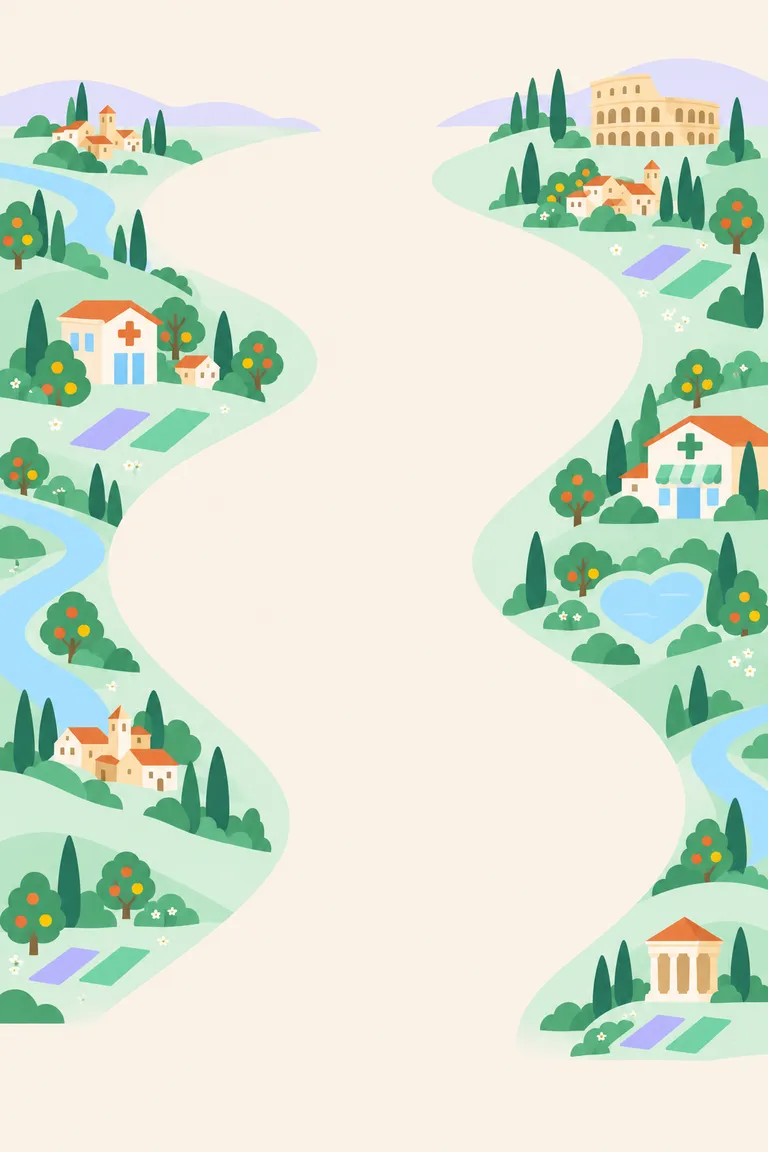
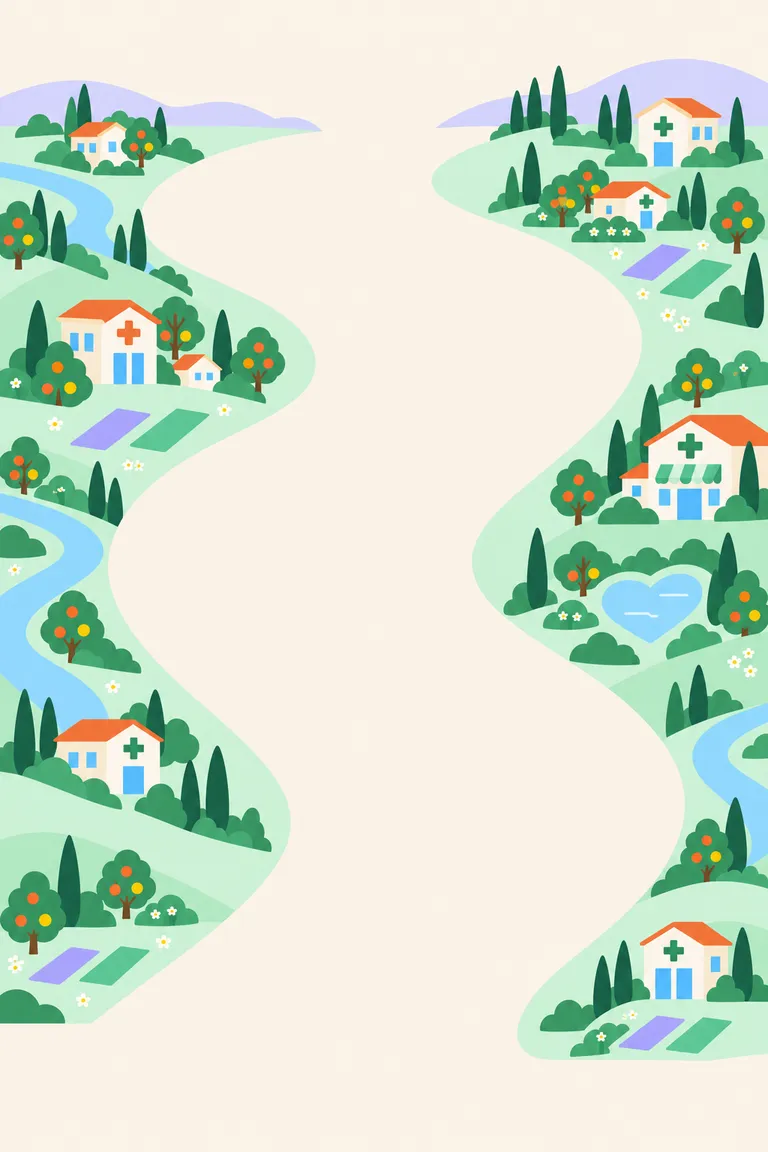
Map: final health landscape
Claude-Session: https://claude.ai/code/session_013CZ3fAhEejDTEUiXMB3nFk

diff --git a/web/src/lib/lands.ts b/web/src/lib/lands.ts
@@ -22,7 +22,7 @@ export const LANDS: Record<string, readonly (readonly [number, number])[]> = {
   "games": [[0.5,0.5],[0.482,0.253],[0.474,0.15],[0.474,0.144],[0.465,0.144],[0.446,0.144],[0.438,0.163],[0.479,0.219],[0.541,0.228],[0.591,0.212],[0.61,0.212],[0.591,0.212],[0.544,0.216],[0.483,0.231],[0.433,0.231],[0.4,0.231],[0.394,0.231],[0.409,0.241],[0.449,0.247],[0.499,0.266],[0.552,0.275],[0.594,0.266],[0.622,0.256],[0.63,0.25],[0.618,0.247],[0.588,0.247],[0.539,0.247],[0.485,0.247],[0.433,0.247],[0.441,0.263],[0.464,0.322],[0.5,0.5],[0.5,0.5]],
   "gardening": [[0.5,0.5],[0.453,0.359],[0.444,0.147],[0.435,0.144],[0.448,0.144],[0.428,0.144],[0.429,0.166],[0.484,0.225],[0.55,0.222],[0.598,0.209],[0.61,0.209],[0.586,0.209],[0.537,0.212],[0.477,0.231],[0.427,0.231],[0.397,0.231],[0.393,0.231],[0.412,0.241],[0.452,0.256],[0.501,0.272],[0.552,0.275],[0.593,0.269],[0.619,0.263],[0.624,0.263],[0.61,0.263],[0.58,0.266],[0.534,0.266],[0.48,0.266],[0.429,0.266],[0.437,0.278],[0.463,0.306],[0.5,0.5],[0.5,0.5]],
   "general": [[0.5,0.5],[0.452,0.356],[0.444,0.144],[0.435,0.144],[0.446,0.144],[0.426,0.156],[0.427,0.175],[0.485,0.216],[0.55,0.222],[0.598,0.209],[0.609,0.209],[0.587,0.209],[0.538,0.216],[0.477,0.228],[0.425,0.234],[0.394,0.234],[0.389,0.234],[0.409,0.244],[0.45,0.253],[0.5,0.269],[0.553,0.278],[0.595,0.272],[0.623,0.263],[0.629,0.259],[0.617,0.259],[0.587,0.259],[0.542,0.259],[0.488,0.259],[0.421,0.269],[0.425,0.281],[0.448,0.344],[0.5,0.5],[0.5,0.5]],
-  "health": [[0.5,0.5],[0.453,0.359],[0.444,0.141],[0.434,0.141],[0.444,0.141],[0.424,0.153],[0.422,0.175],[0.479,0.225],[0.545,0.222],[0.597,0.209],[0.609,0.209],[0.584,0.209],[0.533,0.209],[0.472,0.228],[0.422,0.234],[0.392,0.234],[0.389,0.234],[0.41,0.237],[0.452,0.247],[0.504,0.259],[0.557,0.269],[0.599,0.263],[0.623,0.256],[0.626,0.253],[0.608,0.253],[0.575,0.253],[0.525,0.253],[0.472,0.256],[0.417,0.259],[0.428,0.269],[0.455,0.366],[0.5,0.5],[0.5,0.5]],
+  "health": [[0.5,0.5],[0.453,0.359],[0.444,0.141],[0.432,0.141],[0.443,0.141],[0.422,0.147],[0.425,0.172],[0.481,0.222],[0.547,0.225],[0.596,0.209],[0.609,0.206],[0.585,0.206],[0.534,0.206],[0.472,0.228],[0.422,0.234],[0.392,0.234],[0.389,0.234],[0.41,0.237],[0.453,0.247],[0.504,0.259],[0.557,0.269],[0.597,0.259],[0.623,0.253],[0.626,0.253],[0.609,0.253],[0.574,0.253],[0.524,0.253],[0.471,0.253],[0.408,0.259],[0.419,0.269],[0.446,0.338],[0.5,0.5],[0.5,0.5]],
   "history": [[0.5,0.5],[0.453,0.359],[0.443,0.15],[0.433,0.15],[0.442,0.15],[0.424,0.153],[0.425,0.178],[0.484,0.222],[0.55,0.225],[0.599,0.209],[0.612,0.209],[0.586,0.209],[0.537,0.212],[0.476,0.231],[0.425,0.234],[0.394,0.234],[0.389,0.234],[0.41,0.244],[0.451,0.253],[0.502,0.272],[0.554,0.278],[0.596,0.272],[0.622,0.266],[0.627,0.263],[0.614,0.263],[0.584,0.263],[0.537,0.263],[0.483,0.263],[0.424,0.266],[0.431,0.278],[0.455,0.366],[0.5,0.5],[0.5,0.5]],
   "language": [[0.5,0.5],[0.453,0.359],[0.448,0.166],[0.443,0.15],[0.458,0.15],[0.434,0.15],[0.428,0.172],[0.474,0.225],[0.536,0.241],[0.589,0.216],[0.614,0.216],[0.599,0.216],[0.554,0.216],[0.494,0.241],[0.445,0.231],[0.411,0.231],[0.404,0.231],[0.42,0.244],[0.457,0.263],[0.505,0.284],[0.556,0.281],[0.597,0.272],[0.624,0.263],[0.629,0.259],[0.617,0.259],[0.587,0.259],[0.541,0.259],[0.487,0.259],[0.427,0.266],[0.432,0.275],[0.455,0.366],[0.5,0.5],[0.5,0.5]],
   "law": [[0.5,0.5],[0.453,0.359],[0.443,0.144],[0.433,0.144],[0.443,0.144],[0.426,0.153],[0.429,0.175],[0.487,0.225],[0.553,0.222],[0.6,0.209],[0.613,0.209],[0.586,0.209],[0.537,0.212],[0.469,0.231],[0.419,0.231],[0.389,0.231],[0.392,0.231],[0.411,0.241],[0.451,0.253],[0.502,0.272],[0.554,0.278],[0.596,0.272],[0.622,0.266],[0.627,0.263],[0.614,0.263],[0.584,0.263],[0.537,0.263],[0.483,0.263],[0.43,0.266],[0.437,0.278],[0.461,0.322],[0.5,0.5],[0.5,0.5]],
